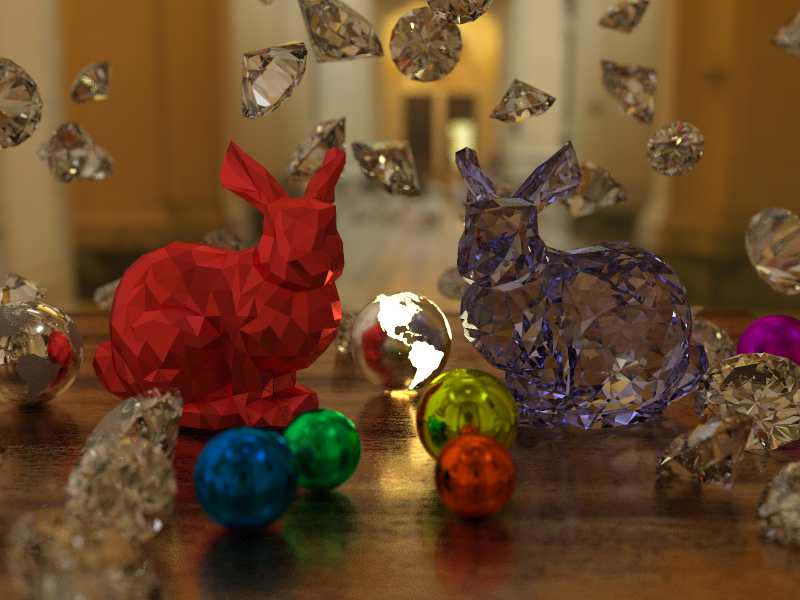
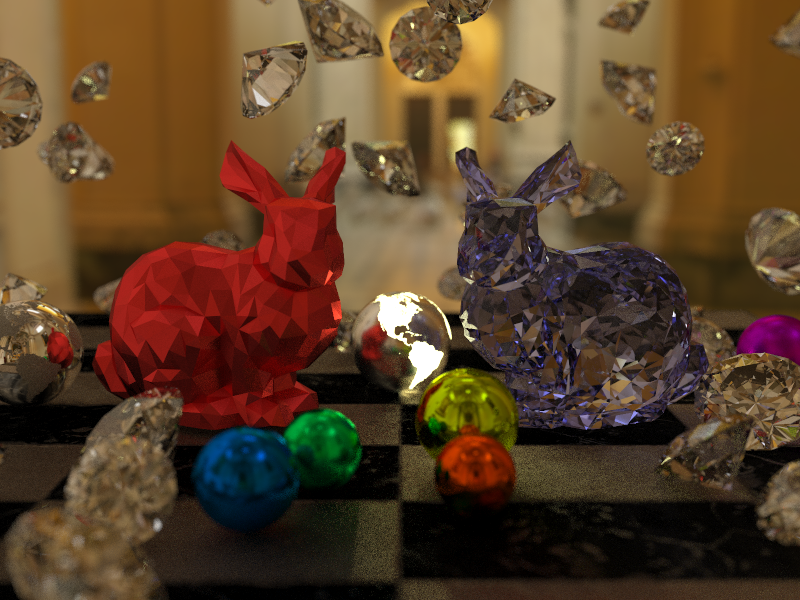
Think that normal map not cannot be apply to pathtracing

diff --git a/src/main.rs b/src/main.rs
@@ -211,13 +211,15 @@ fn init_scene() -> (Camera, Scene) {
                     //albedo:  Texture::white(),
                     //albedo: Texture::from_path("textures/2d/stone03.jpg"),
                     //albedo: Texture::from_path("textures/2d/checkered_v2_512.png"),
-                    albedo: Texture::from_path("textures/2d/bamboo-wood-semigloss-Unreal-Engine/bamboo-wood-semigloss-albedo.png"),
+                    //albedo: Texture::from_path("textures/2d/bamboo-wood-semigloss-Unreal-Engine/bamboo-wood-semigloss-albedo.png"),
+                    albedo: Texture::from_path("textures/2d/MarbleFloorTiles2/TexturesCom_MarbleFloorTiles2_1024_c_diffuse.tiff"),
                     emission: Texture::black(),
                     //roughness: Texture::white(),
-                    roughness: Texture::from_path("textures/2d/bamboo-wood-semigloss-Unreal-Engine/bamboo-wood-semigloss-roughness.png"),
+                    //roughness: Texture::from_path("textures/2d/bamboo-wood-semigloss-Unreal-Engine/bamboo-wood-semigloss-roughness.png"),
+                    roughness: Texture::from_path("textures/2d/MarbleFloorTiles2/TexturesCom_MarbleFloorTiles2_1024_roughness.png"),
                     //normal: Texture::from_path("textures/2d/bamboo-wood-semigloss-Unreal-Engine/bamboo-wood-semigloss-normal.png"),
-                    //normal: Texture::from_path("textures/2d/MarbleFloorTiles2/TexturesCom_MarbleFloorTiles2_1024_normal.bmp"),
-                    normal: Texture::flat(),
+                    normal: Texture::from_path("textures/2d/MarbleFloorTiles2/TexturesCom_MarbleFloorTiles2_1024_normal.bmp"),
+                    //normal: Texture::flat(),
                 }
             }),
         ],
@@ -326,7 +328,7 @@ fn main() {
         //let (width, height, sampling) = (1280, 960, 75);// QVGA 1,228,800 pixel
         //let (width, height, sampling) = (1920, 1080, 3);// FHD 2,073,600 pixel
 
-        let mut renderer = DebugRenderer { mode: DebugRenderMode::Normal };
+        let mut renderer = DebugRenderer { mode: DebugRenderMode::Color };
         let mut renderer = PathTracingRenderer::new(sampling);
 
         tee(&mut f, &format!("resolution: {}x{}.", width, height));

diff --git a/src/renderer.rs b/src/renderer.rs
@@ -174,7 +174,7 @@ impl Renderer for PathTracingRenderer {
 
                             // 半球外が選ばれた場合はBRDFを0にする
                             // 真値よりも暗くなるので、サンプリングやり直す方が理想的ではありそう
-                            if intersection.normal.dot(&next_direction).is_sign_negative() {
+                            if textured_normal.dot(&next_direction).is_sign_negative() {
                                 break;
                             } else {
                                 let view = -ray.direction;
